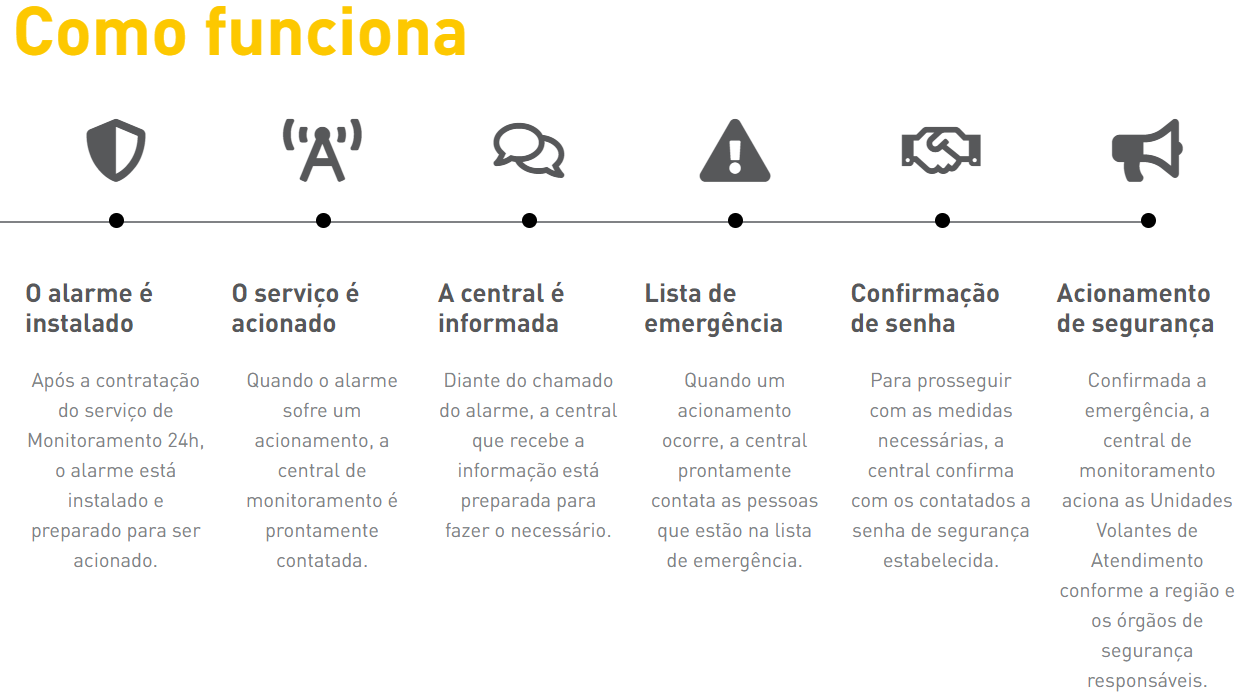
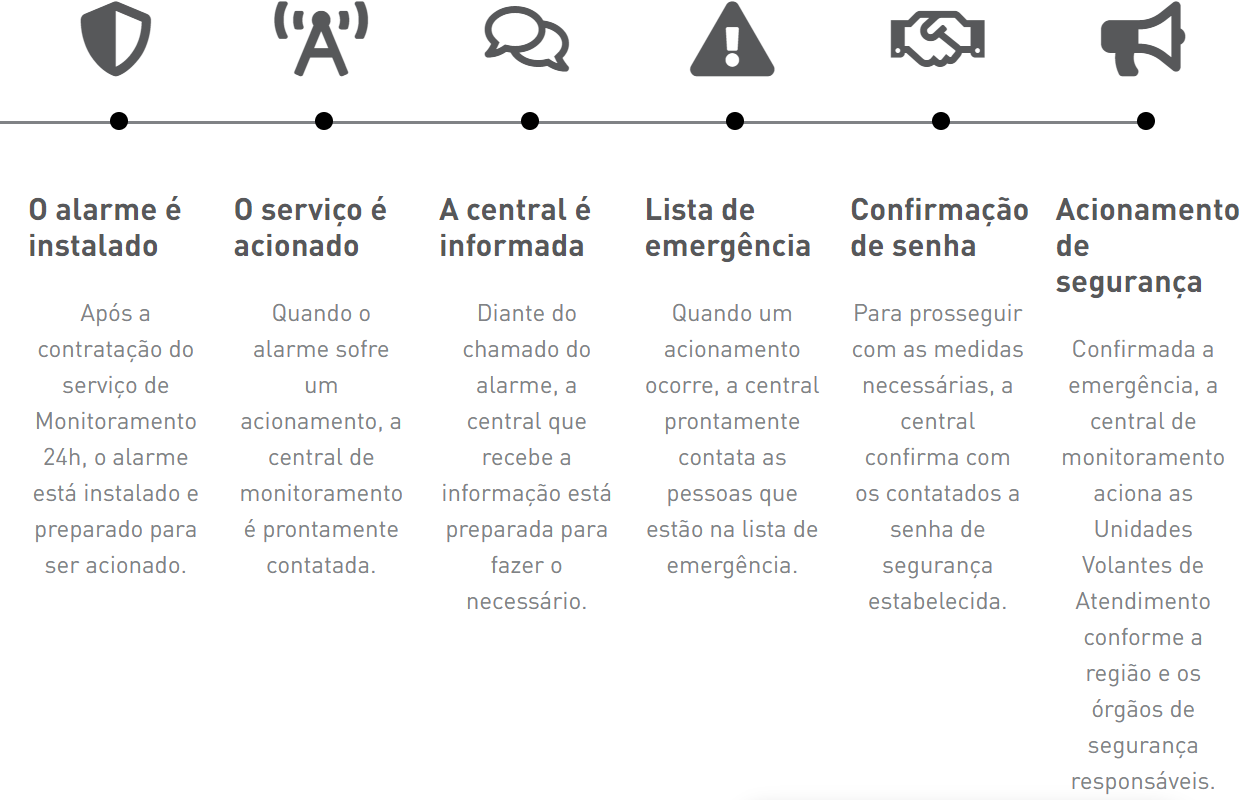
Alterando style e imagens para mobile

diff --git a/style.css b/style.css
@@ -242,6 +242,16 @@ img{
     grid-area: auto;
 }
 
+.comofun1{
+    display: none;
+    grid-area: comofun1;
+}
+
+.comofun2{
+    display: none;
+    grid-area: comofun2;
+}
+
 .bannercell{
     grid-area: bannercell;
 }
@@ -301,21 +311,6 @@ img{
     font-weight: bold;
 }
 
-.footer3{
-    grid-area: footer3;
-}
-
-.footer3 a{
-    color: #FFC80B;
-    font-family: "Volkhov", Georgia, serif ;
-    font-size: 20px;
-}
-
-.footer3 a.textorc:hover{
-    color: #ffffff;
-    text-decoration: none;
-}
-
 .footer4 {
     grid-area: footer4;
     padding-top: 5px;
@@ -367,7 +362,7 @@ img{
 
 
 .footer1 .txt{
-    color:#F3BF0B;
+    color:#ff0000d0;
     font-weight: bold;
     
 }
@@ -375,23 +370,40 @@ img{
 #orcamentoButton {
     flex-wrap: wrap;
     background-color: black;
-    animation: blink 3s infinite;
+    animation: blinkOrcamento 3s infinite; /* Alterado para blinkOrcamento */
     padding: 10px;
     width: 100%;
     color: #fff;
     font-size: 0.9em;
     transition: 0.2s;
+}
 
-  }
-  
-  .textorc{
+.whatapps {
+    flex-wrap: wrap;
+    background-color: black;
+    animation: blinkWhatapps 3s infinite; /* Alterado para blinkWhatapps */
+    padding: 10px;
+    width: 100%;
+    color: #fff;
+    font-size: 0.9em;
+    transition: 0.2s;
+    border-radius: 10px;
+}
+
+.textorc {
     font-size: 20px;
-    font-family:sans-serif;
-  }
-  
-  @keyframes blink {
+    font-family: sans-serif;
+}
+
+@keyframes blinkOrcamento {
     50% {
-      background-color: rgba(255, 230, 0, 0.678);
+        background-color: rgba(255, 230, 0, 0.678);
+    }
+}
+
+@keyframes blinkWhatapps {
+    50% {
+        background-color: rgb(0, 255, 0);
     }
 }
 
@@ -399,7 +411,7 @@ img{
     font-size: 30px;
     color: #fff;
 }
-@media(max-width: 1000px){
+@media(max-width: 1300px){
 
     .estrutura{        
         display: grid; 
@@ -422,7 +434,14 @@ img{
 
 }
 
-@media screen and (max-width: 400px) {
+@media(max-width: 1265px){
+    .suporte img{
+        display: none;
+    }
+    
+}
+
+@media screen and (max-width: 500px) {
 
     .logo{
         min-width: 60px;
@@ -449,7 +468,8 @@ img{
             "flayer3 flayer3 flayer3"
             "banner3 banner3 banner3"
             "servicos servicos servicos"
-            "comofunciona comofunciona comofunciona"
+            "comofun1 comofun1 comofun1"
+            "comofun2 comofun2 comofun2"
             "bannerEmive2 bannerEmive2 bannerEmive2"
             "bannermobile bannermobile bannermobile"
             "bannerEmive bannerEmive bannerEmive"
@@ -467,21 +487,23 @@ img{
         width: 100px;
     }
 
-    .servicos {
-        display: grid;
-        background-color: #ffffff;
-        justify-content: center;
-        padding: 6px;
-        padding-right: 24px;
-        align-items: center;
-        grid-area: servicos;
-        grid-template-columns: repeat(auto-fit, minmax(50px,100px));
-        grid-gap: 10px; /* Espaçamento entre as imagens */
+    .servicos img{
+        width: 200px;
     }
 
-    .servicos img{
-        width: 100px;
+    .comofunciona{
+        display: none;
     }
+    .comofun1{
+        display: grid;
+        grid-area: comofun1;
+    }
+    
+    .comofun2{
+        display: grid;
+        grid-area: comofun2;
+    }
+    
 
     .bann{
         padding: 0px;
@@ -517,10 +539,6 @@ img{
     .container h3{
         font-size: 20px;
         
-    }
-
-    .footer3 .orcamentoButton{
-        border-radius: 10px;
     }
 
 }

diff --git a/index.html b/index.html
@@ -25,8 +25,11 @@
             <a><img src="img/logo/logoemive.png" class="logo" alt="logoEmive" /></a>
             <nav id="navbar">
                 <ul>
-                    <li><a class="orcamento" href="orcamento.html">SOLICITAR ORÇAMENTO</a></li>
+                    <li><a class="orcamento" href="orcamento.html">ORÇAMENTO E-MAIL</a></li>
+                    <li><a class="whatapps" href="https://wa.me/31971549334/?text=Olá, gostaria de sabre mais sober a EMIVE.">ORÇAMENTO WHATAPPS</a></li>
                 </ul>
+
+
             </nav>
         </header>
 
@@ -86,6 +89,15 @@
             <img id="comofunciona" src="img/flayer/comofunciona.png" alt="comofunciona">
         </div>
 
+        <div class="comofun1">
+            <img id="comofun1" src="img/flayer/comofun1.png" alt="comofun1">
+        </div>
+
+        <div class="comofun2">
+            <img id="comofun2" src="img/flayer/comofun2.png" alt="comofun2">
+        </div>
+
+
         <div class="bannercell">
             <img id="bannercell" src="img/banner/bannercell.png" alt="bannercell">
         </div>
@@ -104,8 +116,7 @@
         
 
         <footer class="footer1">
-            <h2><br>AGENDE AGORA SUA <span class="txt">CONSULTORIA GRATUITA PRESENCIAL
-                COM</span> O FRANQUEADO ESPECIALISTA EM SEGURANÇA.</h2><br>
+            <h2><br><span class="txt">QUANTO VALE A SUA SEGURANÇA?</span></h2><br>
         </footer>
 
         <!-- CLASSE FOOTER ESTÁ DESCONFIGURANDO O SITE
@@ -136,11 +147,6 @@
                 </a>
              </div>
         </footer>
-
-        <footer class="footer3">
-            <button id="orcamentoButton"><li><a class="textorc"href="orcamento.html">SOLICITAR ORÇAMENTO</a></li></button>
-        </footer>
-
         <footer class="footer4">
             <li><a class="desenv" href="https://www.linkedin.com/in/thiago-magalhaes94/"> Este site foi desenvolvido por Thiago Magalhães ©</a>
             </li>
